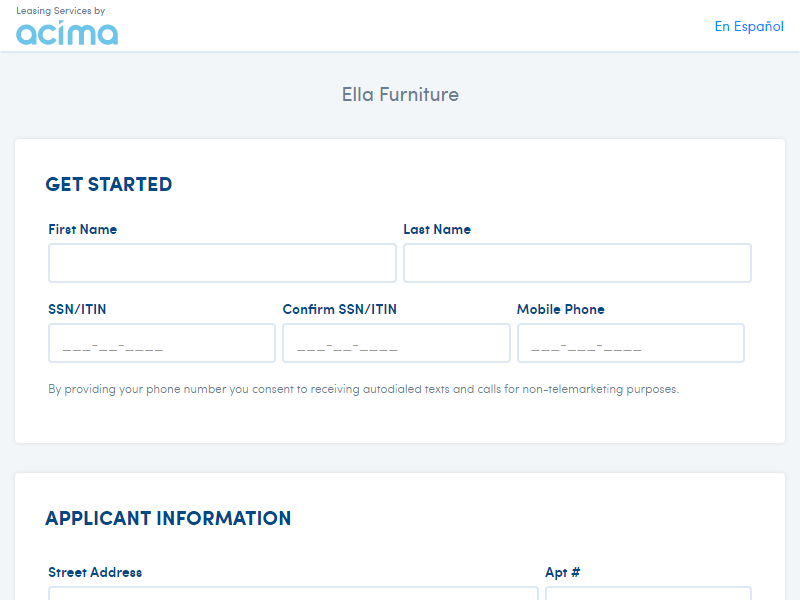
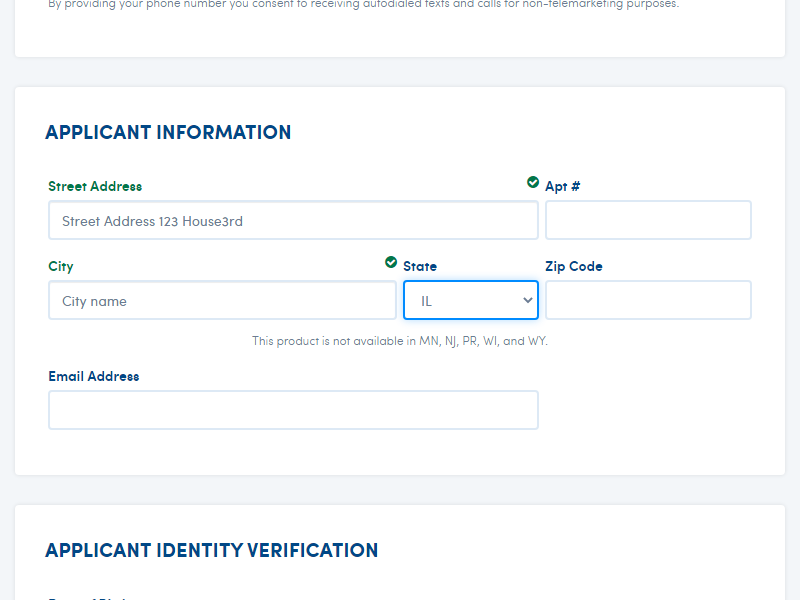
half form complete

diff --git a/test.js b/test.js
@@ -26,11 +26,54 @@ const puppeteer = require('puppeteer');
 
   ]);
 
-   
-  await page.click('a.btn.btn-lg.btn-primary');
-  await   page.waitForNavigation();
+  await Promise.all([
+  await page.click('a.btn.btn-lg.btn-primary'),
+  await   page.waitForNavigation()
+]);
+
+
+  //form input
+
+  var first_name="hi";
+  const firstName= await page.$('#contract_applications_forms_contract_application_form_applicant_information_attributes_first_name');
+  await firstName.type(first_name);
+  
+
+  var last_name="bye";
+  const lastName= await page.$('#contract_applications_forms_contract_application_form_applicant_information_attributes_last_name');
+  await lastName.type(last_name);
+
+  var ssn_itin="123456789";
+  const ssnItin= await page.$('#contract_applications_forms_contract_application_form_applicant_identity_attributes_identification_number');
+  await ssnItin.type(ssn_itin);
+
+  var confirm_ssn="123456789";
+  const confirmSsn= await page.$('#identification_number_confirmation');
+  await confirmSsn.type(ssn_itin);
+
+  var mobile_number="9876543210";
+  const mobileNumber= await page.$('#contract_applications_forms_contract_application_form_applicant_information_attributes_primary_phone_number');
+  await mobileNumber.type(mobile_number);
+
+  var street_address="Street Address 123 House";
+  const streetAddress= await page.$('#contract_applications_forms_contract_application_form_applicant_information_attributes_street_address');
+  await streetAddress.type(street_address);
+
+  var apt_number="3rd";
+  const aptNumber= await page.$('#contract_applications_forms_contract_application_form_applicant_information_attributes_autofill_selected_secondary_address');
+  await aptNumber.type(apt_number);
+
+  var city_name="City name";
+  const cityName= await page.$('#contract_applications_forms_contract_application_form_applicant_information_attributes_city');
+  await cityName.type(city_name);
+
+  var state_code="IL";
+  const stateCode= await page.$('#contract_applications_forms_contract_application_form_applicant_information_attributes_state_code');
+  await stateCode.type(state_code);
+
+
+  
   
   await page.screenshot({ path: 'example.png' });
-
   await browser.close();
 })();
